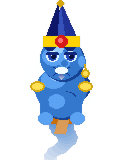
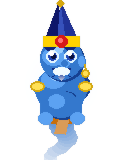
expression system: smirk/surprised/whee/sleepy/happy per state
float=cool smirk, drag=YOOO surprised (wide eyes + open O mouth),
thrown=WHEEE (squinted XD + huge grin), idle 60s=sleepy (closed eyes + ZZZs),
walk=happy open. wakes on click.

Changed region(s): [[0.4, 0.375, 0.625, 0.5], [0.525, 0.3125, 0.65, 0.3438], [0.375, 0.3125, 0.5, 0.3438]]

diff --git a/gen_sprites.py b/gen_sprites.py
@@ -128,50 +128,132 @@ def draw_head(draw, cx, cy):
     ell(draw, cx + r + 3, cy + 15, 4, 4, GOLD)
     ell(draw, cx + r + 3, cy + 15, 2, 2, GOLD_LIGHT)
 
-def draw_face(draw, cx, cy):
-    # Eyebrows — gently arched, relaxed (not raised in shock)
-    for bx0, flip in [(cx - 15, 1), (cx + 5, -1)]:
+def draw_face(draw, cx, cy, expression="smirk"):
+    if expression == "smirk":
+        _face_smirk(draw, cx, cy)
+    elif expression == "surprised":
+        _face_surprised(draw, cx, cy)
+    elif expression == "whee":
+        _face_whee(draw, cx, cy)
+    elif expression == "sleepy":
+        _face_sleepy(draw, cx, cy)
+    elif expression == "happy":
+        _face_happy(draw, cx, cy)
+
+def _brows_normal(draw, cx, cy):
+    for bx0 in [cx - 15, cx + 5]:
         for j in range(8):
             arch = int((j - 3.5) ** 2 * 0.18)
             ell(draw, bx0 + j, cy - 10 - arch, 2, 2, BROW)
 
-    # Eyes — half-lidded, cool/relaxed (not wide-open shocked)
-    for ex in [cx - 9, cx + 9]:
-        # eye white — slightly smaller, oval not circle
-        ell(draw, ex, cy - 2, 6, 5, EYE_WHITE)
-        # iris
-        ell(draw, ex, cy - 2, 4, 4, EYE_IRIS)
-        # pupil
-        ell(draw, ex + 1, cy - 2, 2, 2, EYE_PUPIL)
-        # shine
-        ell(draw, ex - 1, cy - 4, 1, 1, (255, 255, 255, 220))
-        # upper eyelid — covers top third of eye = relaxed/half-lidded look
-        draw.line([(ex - 6, cy - 5), (ex + 6, cy - 5)], fill=BROW, width=2)
-        draw.line([(ex - 5, cy - 6), (ex + 5, cy - 6)], fill=BROW, width=1)
+def _brows_raised(draw, cx, cy, extra=6):
+    for bx0 in [cx - 15, cx + 5]:
+        for j in range(8):
+            arch = int((j - 3.5) ** 2 * 0.22)
+            ell(draw, bx0 + j, cy - 14 - arch - extra + j // 3, 2, 2, BROW)
 
-    # Nose — small rounded bulb
+def _nose(draw, cx, cy):
     ell(draw, cx + 3, cy + 5, 5, 4, BODY_LIGHT)
     ell(draw, cx + 3, cy + 5, 3, 3, BODY_MID)
 
-    # Friendly closed smirk — no gaping mouth
-    sy = cy + 11
-    # lower lip curve
-    for dx in range(-8, 9):
-        curve = int(dx * dx * 0.055)
-        draw.point((cx + dx, sy + 3 + curve), fill=LIP)
-    # upper lip line — straight with slight upturn at corners
-    for dx in range(-8, 9):
-        upturn = int(abs(dx) * 0.3)
-        draw.point((cx + dx, sy - upturn), fill=LIP)
-    # small visible teeth strip — understated
-    ell(draw, cx, sy + 1, 6, 3, TEETH)
-
-    # Goatee
+def _goatee(draw, cx, sy):
     for dy in range(6):
         bw = max(0, 3 - abs(dy - 2))
         for dx in range(-bw, bw + 1):
-            a = max(60, BEARD[3] - dy * 25)
-            draw.point((cx + dx, sy + 5 + dy), fill=(*BEARD[:3], a))
+            draw.point((cx + dx, sy + dy), fill=(*BEARD[:3], max(60, BEARD[3] - dy * 25)))
+
+def _face_smirk(draw, cx, cy):
+    """Cool relaxed smirk — default float expression."""
+    _brows_normal(draw, cx, cy)
+    for ex in [cx - 9, cx + 9]:
+        ell(draw, ex, cy - 2, 6, 5, EYE_WHITE)
+        ell(draw, ex, cy - 2, 4, 4, EYE_IRIS)
+        ell(draw, ex + 1, cy - 2, 2, 2, EYE_PUPIL)
+        ell(draw, ex - 1, cy - 4, 1, 1, (255, 255, 255, 220))
+        draw.line([(ex - 6, cy - 5), (ex + 6, cy - 5)], fill=BROW, width=2)
+        draw.line([(ex - 5, cy - 6), (ex + 5, cy - 6)], fill=BROW, width=1)
+    _nose(draw, cx, cy)
+    sy = cy + 11
+    for dx in range(-8, 9):
+        draw.point((cx + dx, sy + 3 + int(dx * dx * 0.055)), fill=LIP)
+    for dx in range(-8, 9):
+        draw.point((cx + dx, sy - int(abs(dx) * 0.3)), fill=LIP)
+    ell(draw, cx, sy + 1, 6, 3, TEETH)
+    _goatee(draw, cx, sy + 5)
+
+def _face_surprised(draw, cx, cy):
+    """YOOOO face — used when dragged. Wide eyes, raised brows, open mouth."""
+    _brows_raised(draw, cx, cy, extra=4)
+    for ex in [cx - 9, cx + 9]:
+        ell(draw, ex, cy - 2, 7, 7, EYE_WHITE)
+        ell(draw, ex, cy - 2, 5, 5, EYE_IRIS)
+        ell(draw, ex + 1, cy - 2, 3, 3, EYE_PUPIL)
+        ell(draw, ex - 2, cy - 5, 2, 2, (255, 255, 255, 220))
+    _nose(draw, cx, cy)
+    # wide open O-shaped mouth
+    sy = cy + 12
+    ell(draw, cx, sy + 3, 9, 7, LIP)
+    ell(draw, cx, sy + 3, 7, 5, TEETH)
+    ell(draw, cx, sy + 5, 5, 4, (220, 100, 120, 255))   # tongue/throat
+    _goatee(draw, cx, sy + 11)
+    # exclamation marks
+    for ox in [-18, 18]:
+        draw.line([(cx + ox, cy - 12), (cx + ox, cy - 6)], fill=GOLD, width=2)
+        ell(draw, cx + ox, cy - 4, 2, 2, GOLD)
+
+def _face_whee(draw, cx, cy):
+    """WHEEE — used when thrown. Squinted XD eyes, huge grin."""
+    _brows_normal(draw, cx, cy)
+    # squinted happy eyes — just arcs, no whites
+    for ex in [cx - 9, cx + 9]:
+        draw.arc([ex - 6, cy - 7, ex + 6, cy + 1], start=200, end=340, fill=BROW, width=3)
+    _nose(draw, cx, cy)
+    # huge open grin
+    sy = cy + 10
+    for dx in range(-11, 12):
+        curve = int(dx * dx * 0.04)
+        draw.point((cx + dx, sy + 6 + curve), fill=LIP)
+    draw.line([(cx - 11, sy), (cx + 11, sy)], fill=LIP, width=2)
+    ell(draw, cx, sy + 3, 10, 4, TEETH)
+    for tx in [-5, 0, 5]:
+        draw.line([(cx + tx, sy), (cx + tx, sy + 6)], fill=(*LIP[:3], 60), width=1)
+    _goatee(draw, cx, sy + 8)
+
+def _face_sleepy(draw, cx, cy):
+    """Sleeping — closed eyes, tiny smile, ZZZs."""
+    _brows_normal(draw, cx, cy)
+    # closed eyes — just a gentle curve
+    for ex in [cx - 9, cx + 9]:
+        draw.arc([ex - 6, cy - 6, ex + 6, cy + 2], start=190, end=350, fill=BROW, width=3)
+    _nose(draw, cx, cy)
+    # small peaceful smile
+    sy = cy + 12
+    for dx in range(-6, 7):
+        draw.point((cx + dx, sy + int(dx * dx * 0.07)), fill=LIP)
+    # ZZZs floating near hat (drawn as pixel staircase z-shapes)
+    for i, (ox, oy) in enumerate([(14, -18), (20, -26), (26, -36)]):
+        size = 3 + i
+        zx, zy = cx + ox, cy + oy
+        draw.line([(zx, zy), (zx + size, zy)], fill=(*GOLD[:3], 200), width=1)
+        draw.line([(zx + size, zy), (zx, zy + size)], fill=(*GOLD[:3], 200), width=1)
+        draw.line([(zx, zy + size), (zx + size, zy + size)], fill=(*GOLD[:3], 200), width=1)
+    _goatee(draw, cx, sy + 4)
+
+def _face_happy(draw, cx, cy):
+    """Happy open — used while drifting/walking."""
+    _brows_normal(draw, cx, cy)
+    for ex in [cx - 9, cx + 9]:
+        ell(draw, ex, cy - 2, 6, 6, EYE_WHITE)
+        ell(draw, ex, cy - 2, 4, 4, EYE_IRIS)
+        ell(draw, ex + 1, cy - 2, 2, 2, EYE_PUPIL)
+        ell(draw, ex - 1, cy - 5, 2, 2, (255, 255, 255, 210))
+    _nose(draw, cx, cy)
+    sy = cy + 11
+    for dx in range(-9, 10):
+        draw.point((cx + dx, sy + 4 + int(dx * dx * 0.048)), fill=LIP)
+    draw.line([(cx - 9, sy - 1), (cx + 9, sy - 1)], fill=LIP, width=2)
+    ell(draw, cx, sy + 2, 8, 4, TEETH)
+    _goatee(draw, cx, sy + 6)
 
 # ── sash ──────────────────────────────────────────────────────────────────────
 
@@ -288,17 +370,30 @@ def make_frame(mode, frame_idx, total_frames):
         return img
 
     if mode == "float":
-        head_cy = int(62 + bob)
-        arm_fn  = lambda d, c, cy: draw_arms_crossed(d, c, cy, t)
-        tail_a  = 9
+        head_cy    = int(62 + bob)
+        arm_fn     = lambda d, c, cy: draw_arms_crossed(d, c, cy, t)
+        tail_a     = 9
+        expression = "smirk"
     elif mode == "walk":
-        head_cy = int(60 + bob * 0.5)
-        arm_fn  = lambda d, c, cy: draw_arms_drifting(d, c, cy, t)
-        tail_a  = 14
+        head_cy    = int(60 + bob * 0.5)
+        arm_fn     = lambda d, c, cy: draw_arms_drifting(d, c, cy, t)
+        tail_a     = 14
+        expression = "happy"
+    elif mode == "whee":
+        head_cy    = int(60 + bob * 0.4)
+        arm_fn     = lambda d, c, cy: draw_arms_drifting(d, c, cy, t)
+        tail_a     = 18
+        expression = "whee"
+    elif mode == "sleep":
+        head_cy    = int(64 + bob * 0.3)
+        arm_fn     = lambda d, c, cy: draw_arms_crossed(d, c, cy, t)
+        tail_a     = 5
+        expression = "sleepy"
     else:  # grab
-        head_cy = int(62 + bob * 0.3)
-        arm_fn  = lambda d, c, cy: draw_arms_grab(d, c, cy)
-        tail_a  = 7
+        head_cy    = int(62 + bob * 0.3)
+        arm_fn     = lambda d, c, cy: draw_arms_grab(d, c, cy)
+        tail_a     = 7
+        expression = "surprised"
 
     chest_y  = head_cy + 26
     waist_y  = chest_y + 28
@@ -312,7 +407,7 @@ def make_frame(mode, frame_idx, total_frames):
     draw_torso(draw, cx, chest_y)
     arm_fn(draw, cx, chest_y)
     draw_head(draw, cx, head_cy)
-    draw_face(draw, cx, head_cy)
+    draw_face(draw, cx, head_cy, expression)
     draw_hat(draw, cx, head_top, t)
 
     soft = img.filter(ImageFilter.GaussianBlur(radius=0.7))
@@ -321,7 +416,7 @@ def make_frame(mode, frame_idx, total_frames):
 
 # ── generate ──────────────────────────────────────────────────────────────────
 
-SETS = {"float": 6, "walk": 6, "poof_expand": 4, "poof_shrink": 4}
+SETS = {"float": 6, "walk": 6, "whee": 6, "sleep": 4, "poof_expand": 4, "poof_shrink": 4}
 
 # grab — single tilted frame
 grab = make_frame("grab", 0, 1)

diff --git a/Ginie.py b/Ginie.py
@@ -929,6 +929,9 @@ class PetWindow(Gtk.Window):
         self.fs_float_l     = load_set("float",        flip=True)
         self.fs_walk_r      = load_set("walk",         flip=False)
         self.fs_walk_l      = load_set("walk",         flip=True)
+        self.fs_whee_r      = load_set("whee",         flip=False)
+        self.fs_whee_l      = load_set("whee",         flip=True)
+        self.fs_sleep       = load_set("sleep",        flip=False)
         self.fs_poof_expand = load_set("poof_expand",  flip=False)
         self.fs_poof_shrink = load_set("poof_shrink",  flip=False)
         self.fs_grab        = load_set("grab",         flip=False)
@@ -1165,7 +1168,7 @@ class PetWindow(Gtk.Window):
 
         elif self._state == THROWN:
             self._anim_ms  = ANIM_FLOAT_MS
-            fs = self.fs_float_r if self._throw_vx >= 0 else self.fs_float_l
+            fs = self.fs_whee_r if self._throw_vx >= 0 else self.fs_whee_l
             if self.frame_set is not fs:
                 self.frame_set = fs
 
@@ -1186,10 +1189,17 @@ class PetWindow(Gtk.Window):
             if self._throw_speed < 25:
                 self._start_float()
 
-        # inactivity: if parked as floating with no velocity, nudge after timeout
+        # inactivity: if parked as floating with no velocity, nudge or sleep
         user_away = (now - self._last_user_action) > INACTIVITY_WANDER_S
         if user_away and self._state == FLOATING and self._vx == 0 and self._vy == 0:
-            self._pick_next_move(now)
+            asleep = (now - self._last_user_action) > 60
+            if asleep:
+                fs = self.fs_sleep
+                if self.frame_set is not fs:
+                    self.frame_set = fs
+                    self.frame_idx = 0
+            else:
+                self._pick_next_move(now)
 
     def _clamp(self, nx, ny):
         m = self._margin
@@ -1264,6 +1274,9 @@ class PetWindow(Gtk.Window):
         self._press_x = ev.x_root
         self._press_y = ev.y_root
         self._did_drag = False
+        # wake from sleep
+        if self.frame_set is self.fs_sleep:
+            self._start_float()
         if ev.button == 3:
             self._show_menu(ev)
 
